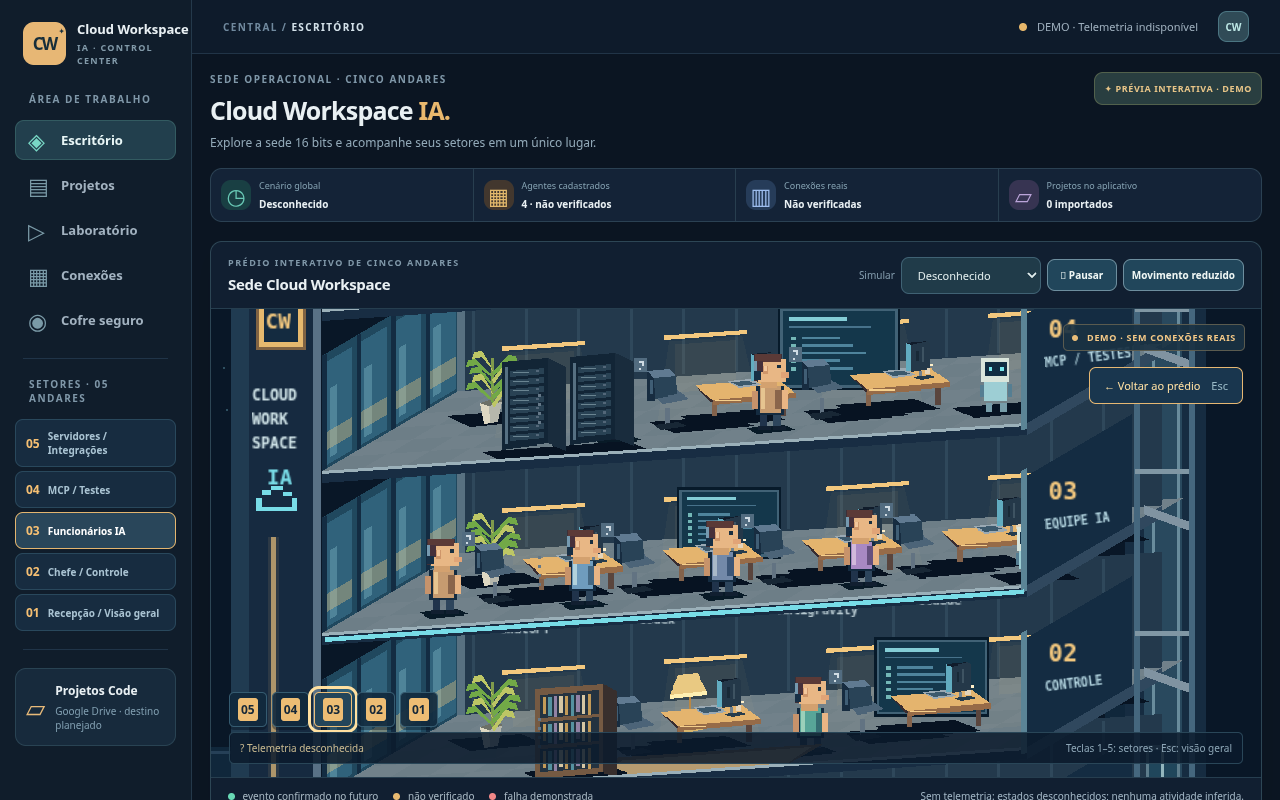
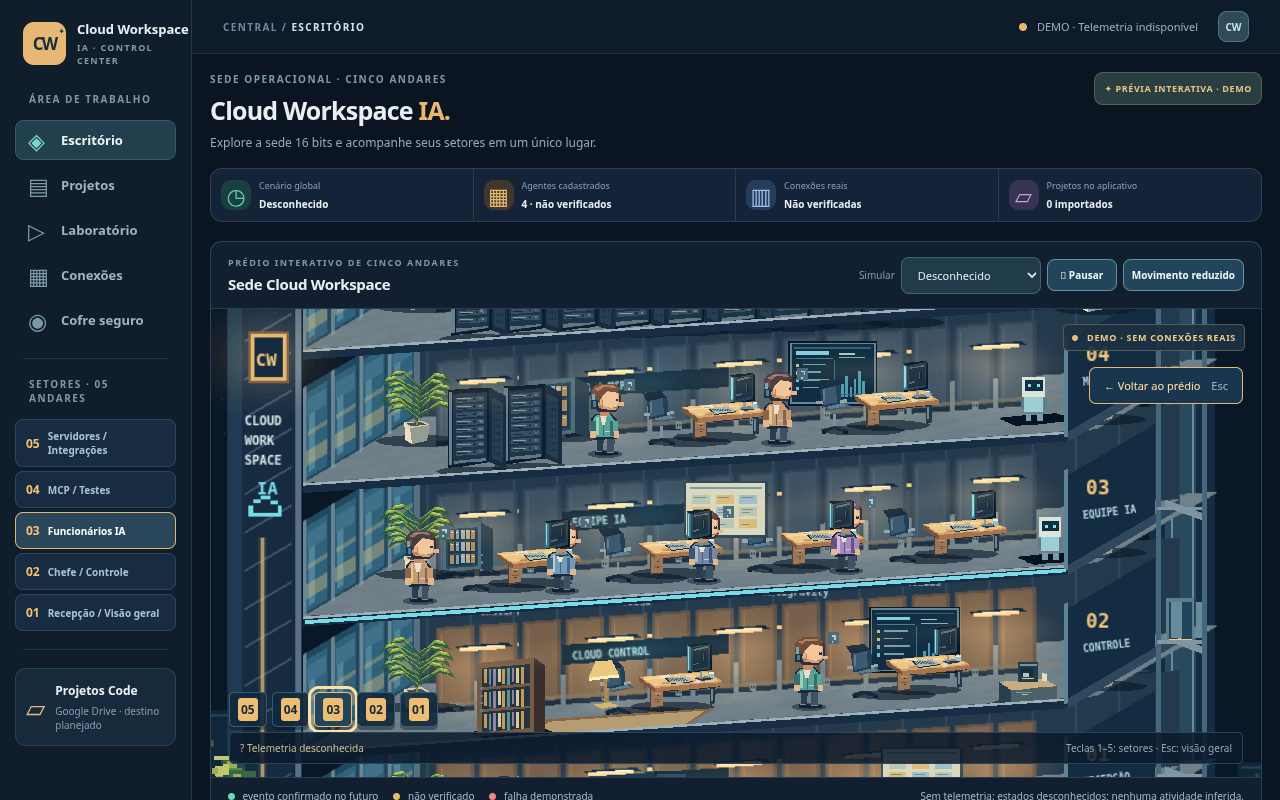
docs: compare premium visuals and record Cloud validation and benchmarks

Changed region(s): [[0.1562, 0.375, 0.9688, 0.9688], [0.875, 0.375, 0.9688, 0.4062]]

diff --git a/docs/codex/COMPARACAO_VISUAL.html b/docs/codex/COMPARACAO_VISUAL.html
@@ -1,1 +1,1 @@
-<!doctype html><html lang="pt-BR"><meta charset="utf-8"><meta name="viewport" content="width=device-width"><title>Comparação visual — Tarefa 03</title><style>body{background:#0c1b2b;color:#d9e6ec;font:16px system-ui;margin:24px}main{display:grid;grid-template-columns:1fr 1fr;gap:24px}img{width:100%;object-fit:contain;border:1px solid #456275}h1{font-size:24px}p{max-width:1000px;line-height:1.5}@media(max-width:900px){main{grid-template-columns:1fr}}</style><h1>Referência aprovada e aplicação em execução</h1><p>A esquerda é a referência artística estática; a direita é uma captura real do Chromium, com PixiJS 8. A referência nunca é usada como textura da cena. Esta comparação não comprova funcionamento Windows.</p><main><section><h2>Referência artística — não é o software</h2><img src="../referencias/REFERENCIA_APROVADA_PREDIO_5_ANDARES_16BITS.png" alt="Conceito aprovado com prédio e quadros de animação"></section><section><h2>Aplicação real — 1440×900</h2><img src="screenshots/overview-1440x900.png" alt="Interface React e cena PixiJS capturadas pelo Playwright"><h2>Aplicação real — setor ampliado</h2><img src="screenshots/agents-zoom-1440x900.png" alt="Setor IA ampliado no aplicativo"></section></main><p>Preservados: cinco pisos, fachada oeste, elevador leste, cidade noturna, móveis e personagens separados, monitores voltados aos personagens. Diferenças restantes: densidade decorativa, sombras orgânicas, reflexos e vegetação são mais simples; sprites humanos e perspectiva precisam de revisão artística adicional. Não declarar fidelidade final premium.</p></html>
+<!doctype html><html lang="pt-BR"><meta charset="utf-8"><meta name="viewport" content="width=device-width"><title>Comparação visual — PR 1, rodada 2</title><style>body{background:#0c1b2b;color:#d9e6ec;font:16px system-ui;margin:24px}main{display:grid;grid-template-columns:repeat(3,1fr);gap:20px}img{width:100%;object-fit:contain;border:1px solid #456275}h1{font-size:24px}h2{font-size:18px}p{max-width:1200px;line-height:1.6}a{color:#a4e4ef}@media(max-width:1100px){main{grid-template-columns:1fr}}</style><h1>Referência, implementação anterior e rodada premium 2</h1><p>A primeira coluna é somente referência artística. As demais são capturas reais do Chromium: versão anterior preservada do commit 616f406 e implementação atual com objetos independentes PixiJS 8. Nenhuma imagem do conceito é textura da aplicação. Clique para ver cada arquivo no tamanho original.</p><main><section><h2>Referência aprovada — conceito estático</h2><a href="../referencias/REFERENCIA_APROVADA_PREDIO_5_ANDARES_16BITS.png"><img src="../referencias/REFERENCIA_APROVADA_PREDIO_5_ANDARES_16BITS.png" alt="Referência artística aprovada, não é captura de software"></a></section><section><h2>Antes — aplicação real, primeira rodada</h2><a href="screenshots/baseline-overview-1440x900.png"><img src="screenshots/baseline-overview-1440x900.png" alt="Visão geral real da implementação anterior"></a><a href="screenshots/baseline-agents-zoom-1440x900.png"><img src="screenshots/baseline-agents-zoom-1440x900.png" alt="Personagens e ambiente anteriores, captura real"></a></section><section><h2>Agora — aplicação real, rodada 2</h2><a href="screenshots/overview-1440x900.png"><img src="screenshots/overview-1440x900.png" alt="Visão geral atual com prédio ampliado e iluminação"></a><a href="screenshots/premium-working-zoom-1440x900.png"><img src="screenshots/premium-working-zoom-1440x900.png" alt="Setor IA atual com personagens sentados, móveis separados e luzes; trabalho DEMO"></a></section></main><p>Evolução observável: proporções do prédio, interiores, painéis/armários, rostos/roupas, mesas/cadeiras/teclados/monitores independentes, árvores/cercas vivas, luzes pré-renderizadas e sombras. Ainda diferem: detalhes artesanais, expressividade e sombreamento orgânico do conceito. Capturas web Linux não validam instalador nem desempenho Windows.</p></html>

diff --git a/docs/codex/RELATORIO_VISUAL_CODEX.md b/docs/codex/RELATORIO_VISUAL_CODEX.md
@@ -1,103 +1,102 @@
-# Relatório visual Codex — Tarefa 03
+# Relatório visual Codex — PR #1, rodada premium 2
 
-Data: 16/11/2026. Repositório: Raphahel30/cloud-workspace-ia.
-Branch: `agent/codex/visual-5-floors`, base `48100ed`.
+Data: 16/11/2026. Branch: `agent/codex/visual-5-floors`.
+Continuação da entrega `616f406` no mesmo [PR #1](https://github.com/Raphahel30/cloud-workspace-ia/pull/1), sem merge ou deploy.
 
-**Resultado: incremento funcional validado no navegador. O acabamento premium da referência ainda não foi atingido. Windows/Tauri e hardware alvo não foram validados.** Sem merge, deploy ou integração real.
+**Resultado:** escritório significativamente mais detalhado e próximo da composição aprovada, funcional no Chromium, com 215 sprites originais, trajetos/posturas e otimização seletiva. Foram preservados os 30 testes anteriores e acrescentados oito: **38 aprovados**. Aprovação artística final e desempenho nativo Windows continuam pendentes; não declaramos reprodução idêntica do conceito.
 
-## Implementação e etapas
+![Captura real atual em 1440×900](screenshots/overview-1440x900.png)
 
-| Etapa | Resultado |
+## Implementação visual
+
+Mantida a aplicação existente React 19 / TypeScript / Vite / Tauri 2 com PixiJS 8. Nenhum reinício de produto, biblioteca gráfica nova ou integração real. Cinco setores aparecem simultaneamente, selecionáveis pelo prédio, controles React e teclado; zoom suave, Escape, foco visível e movimento reduzido preservados.
+
+- **Personagens:** rosto/cabelo em camadas, headset, roupas com lapela/dobras, pele preservada nas paletas, pernas/calçados, piscada discreta e poses sentadas. Quatro quadros de caminhada lateral e posterior, quatro de digitação e dois de sentar/levantar e dos demais estados visuais. Pés ancorados independentemente da pose.
+- **Móveis:** mesa de madeira, gavetas/pés, cadeira, teclado, monitor, recepção, café, armários e painéis mais detalhados. Teclado/monitor são sprites independentes. Tela estreita olha para o personagem; verso com ventilação olha para o observador. Mãos/teclado e oclusão da cadeira foram ajustados nas capturas ampliadas.
+- **Arquitetura:** largura útil aumentada, projeção consistente, materiais de parede, rodapés, juntas metálicas, painéis, letreiros, detalhes de telhado e fachada. Sem deformar a proporção dos sprites para alargar o prédio.
+- **Vegetação/ambiente:** árvores, folhagens variadas e cercas vivas em lugar de repetir somente vasos. Cidade noturna e iluminação âmbar/ciano preservadas. Refletância e luzes são rasterizadas previamente no atlas; sem filtros dinâmicos pesados.
+
+Fontes editáveis em `assets/source/`; desenho em `scripts/art/premium.mjs`; exportador em `scripts/generate-assets.mjs`. Atlas único `public/art/office.{png,json}`. [Documentação da arte](../../assets/README.md).
+
+## Movimentos e estados
+
+`src/scene/motion.ts` é uma máquina visual separada do núcleo: corredor frontal livre, aproximação à cadeira, sentar, digitar, levantar, percorrer corredor e desaparecer na saída. Velocidade limitada a 85 unidades de cena/s; avanço dos quadros de caminhada acompanha a distância. O pés permanecem dentro do piso (`y = -6 - 0,068x` no corredor), sem flutuar junto com o corpo. Espera/alerta/desconhecido interrompem deslocamentos preservando posição; retorno após ausência restaura presença também em estados diferentes de trabalho, inclusive com movimento reduzido.
+
+Elevador ambiental agora acelera/freia, para alinhado às plataformas e abre/fecha portas durante a parada. Altura da cabine/plataformas foi conferida junto com a ampliação do prédio. Não representa tarefas reais ou usuários transportados.
+
+A rota é deliberadamente simples e validada para o mobiliário fixo desta cena. Não é um sistema geral de navegação entre obstáculos ou circulação simultânea com resolução de colisão entre personagens. Paradas/poses foram testadas; não alegamos um simulador físico completo.
+
+Estado inicial desconhecido; indicador DEMO permanente. Simulação individual e global não altera evidências reais. Chefe continua aparecendo somente no cenário explicitamente DEMO de trabalho. LEDs desconhecidos ficam cinza. `ActorStates` e adaptador puro de evidências continuam separados do relógio visual. Não criamos processos/conectores MCP, Windows, GitHub de produto, Drive, KeePassXC ou Hostinger.
+
+## Otimização para o hardware informado
+
+Referência de projeto: Ryzen 5 5600G, Radeon integrada, 16 GB RAM, SSD NVMe 512 GB. Não pedimos testes preliminares no computador para decidir arquitetura.
+
+- Meta configurada: **30 FPS em atividade, até 10 em repouso, suspensão de renderização invisível**. Caminhada/sentar/saída usam orçamento ativo enquanto ocorrem, mesmo antes de chegar ao estado de repouso/ausência.
+- Atlas compartilhado com recorte transparente preservando a origem: 106→215 sprites; pixels do atlas **1024×1792→1024×964**, aproximadamente **7→3,77 MiB RGBA**. Cerca de 46% menos pixels de atlas, sem remover detalhes. Isso não é uma medição de VRAM total.
+- Oito caches densos: cidade/piso externo, cinco estruturas interiores, telhado e fachada oeste. Atores, equipamentos, LEDs, seleção e elevador continuam independentes. Caches parciais preservam oclusão e interação; não são imagem única do prédio.
+- Fachadas finas e vegetação esparsa ficam em geometria/sprites compartilhados: cachear seus grandes retângulos transparentes é desperdício. Comparativo curto com 14 caches está registrado; os oito selecionados evitam seis render textures adicionais.
+- LEDs recalculam seus desenhos somente quando muda estado/fase luminosa, em vez de reconstruir geometria a cada frame. Sem filtros de desfoque em runtime, sem DPR multiplicando a resolução, nearest-neighbor e orçamento que desconta custo de desenho.
+- Pausa/reduced-motion interrompem animação; cena invisível interrompe timers/desenho; retorno/resize pode emitir um frame necessário. Desmontagem libera aplicação/contexto, listeners, observers e timers; atlas em cache é reutilizado. Relógio visual não executa serviços do núcleo.
+
+## Validação executada
+
+Linux, Node 24.22.1, npm 11.9.0, Chromium headless dedicado com ANGLE/SwiftShader (software). Dependências/lockfile da rodada anterior preservados; nenhuma dependência nova foi instalada.
+
+| Verificação | Resultado final |
 | --- | --- |
-| C0 | Inspeção dos documentos/código/Tauri, dependências instaladas, lockfile e `npm ci` verificado. Diagnóstico em [C0_DIAGNOSTICO.md](C0_DIAGNOSTICO.md). |
-| C1 | SVG de prédio inteiro substituído por cena PixiJS 8: cinco setores simultâneos, objetos separados, seleção pela geometria ou controles React, câmera suave, zoom e retorno. |
-| C2 | Atlas original com 106 regiões, fontes editáveis e cenário noturno. Corrigidos teto, escala, oclusão de racks, monitores e enquadramento notebook a partir de capturas reais. Acabamento artístico final parcial. |
-| C3 | Animações individuais, roupas, seis estados, transições de caminhada/mesa/saída, LEDs e elevador independentes; controles DEMO por agente. Pausa e movimento reduzido. |
-| C4 | Build web, 30 testes automatizados no total, seis capturas reais e medições de renderização. PR para revisão humana; validação nativa Windows pendente. |
+| `npm run build` | PASSOU, TypeScript + Vite, 791 módulos |
+| `npm test` | PASSOU, 22 testes Vitest em cinco arquivos |
+| `npm run test:policy` | PASSOU, 3 testes Node originais |
+| `npm run test:contracts` | PASSOU, 5 testes Node protegidos |
+| `npm run test:e2e` | PASSOU, 8 testes, 0 falhas/0 flaky, cerca de 70,8 s |
+| `npm run art:build` + SHA-256 das fontes/atlas antes/depois | PASSOU, reprodução byte a byte |
+| `npm run benchmark:visual` | EXECUTADO, amostras reais abaixo |
+| `git diff --check` e diff dos arquivos protegidos/Tauri | PASSOU, contratos e configuração Tauri intactos |
+| Windows/Tauri/instalador/consumo no Ryzen | NÃO EXECUTADO |
 
-React permanece responsável por navegação, controles, foco, acessibilidade e informações. `Office.tsx` inicia o renderer assincronamente; `OfficeRenderer.ts` organiza geometria, camadas de arquitetura, móveis ordenados por profundidade, avatares, iluminação, elevador e cidade. Não foi criado outro aplicativo, nem alterada a arquitetura Tauri.
+Preservados os 30 testes anteriores. Acrescentados seis testes de movimento/elevador, um de packing/origem/limites da textura e um teste de navegador para pés fixos, sentar/levantar, espera/saída, orçamento de atividade e reentrada reduzida. O teste antigo de saída mantém sua asserção, com timeout maior para o trajeto completo mais longo. Nenhum teste protegido foi editado.
 
-A referência PNG não é textura, tela de funcionamento ou asset de runtime. As peças vêm de `scripts/generate-assets.mjs`, com SVGs editáveis em `assets/source/`, PNG transparente e atlas JSON em `public/art/`. Regeneração executada e comparada com Git sem diferenças. Consulte [documentação da arte](../../assets/README.md).
+Playwright cobre 1280×800 e 1440×900, cinco setores completos no viewport, zoom/retorno, clique na geometria, Enter/1–5/Escape, foco, estados globais/individuais, pausa, reduced-motion do sistema, invisibilidade, congelamento/restauração Chromium, resize, desmontagem/remontagem e erro acessível de import gráfico.
 
-O atlas tem quatro quadros de caminhada, quatro de digitação e dois de repouso, espera e alerta, além de pose desconhecida e cinco paletas de roupa. O teste raster verifica que os quadros obrigatórios têm pixels distintos. Personagens e equipamentos têm tempo/estado próprios; a simulação global pode ser sobrescrita individualmente no painel IA.
+Falhas desta rodada: quadros de repouso idênticos detectados no raster; pés escondidos pela laje por corredor fora da área do piso; mãos/teclado e planta sobreposta ao primeiro posto vistos na captura; personagem não reaparecendo após ausência em estados não ativos, detectado por revisão independente. Corrigidos e cobertos antes da execução final. A revisão posterior não encontrou novos P1/P2; não é auditoria geral do produto.
 
-Nos postos reutilizados, personagem fica à esquerda olhando para a direita, teclado no tampo antes do monitor; a face estreita iluminada olha para o personagem e a placa larga traseira mostra ventilação. Não viramos a tela para o observador. A pose digitando alcança o teclado; há cadeira separada e pernas dobradas. A caminhada usa trajetos curtos no corredor frontal, ainda sem navegação completa com obstáculos.
+## Capturas e comparação
 
-## Estados e segurança
+**Capturas atuais da aplicação executando**, sem composição sobre o PNG aprovado:
 
-- Estado inicial **desconhecido**, sem conexões, tarefas reais ou importação de projetos.
-- Indicador DEMO na barra fixa e na cena; ações globais/individuais explicitamente demonstrativas.
-- Chefe aparece apenas no cenário de trabalho DEMO; nenhum estado recebido de produção é inventado.
-- `ActorStates` é uma entrada visual por personagem. `fromEvidence` é um adaptador puro para uso futuro, baseado nas funções existentes de confiança/TTL; não abre conexão nem executa polling. Testes rejeitam trabalho inferido de processo aberto e atividade expirada.
-- `src/core-contracts/agentState.ts` e `tests/agentState.node.test.mjs` estão idênticos à base, confirmado por `git diff --exit-code`.
-- Não modificados `src-tauri/`, segurança de credenciais, MCP, Drive, GitHub de produto, KeePassXC ou Hostinger. Nenhum outro projeto acessado.
-- Documento histórico dizia que GitHub ainda não existia. A autorização atual nomeia este repositório existente e permite branch/PR. Essa autorização não foi interpretada como permissão para integrações, merge ou deploy.
+- [Visão geral 1280×800](screenshots/overview-1280x800.png) e [1440×900](screenshots/overview-1440x900.png).
+- [Setor IA / desconhecido 1280×800](screenshots/agents-zoom-1280x800.png) e [1440×900](screenshots/agents-zoom-1440x900.png).
+- [Setor IA trabalhando DEMO 1280×800](screenshots/premium-working-zoom-1280x800.png) e [1440×900](screenshots/premium-working-zoom-1440x900.png).
+- [Trabalho DEMO / visão geral](screenshots/demo-working-1440x900.png) e [estados individuais DEMO](screenshots/demo-independent-1440x900.png).
 
-## Testes executados
+A [comparação HTML](COMPARACAO_VISUAL.html) mostra referência artística, capturas anteriores arquivadas do commit `616f406` e capturas atuais. `baseline-*` são imagens reais antigas, claramente separadas das oito capturas atuais. A referência nunca entra no renderer.
 
-Execução final após `npm ci`, em Linux, Node 24.22.1, npm 11.9.0, Chromium headless dedicado com ANGLE/SwiftShader. O Chrome pessoal não foi utilizado.
+Comparação observada: prédio mais largo, vegetação variada, contraste dos materiais, luzes/reflexos e densidade dos interiores mais próximos do conceito; rostos, roupas, mesas e cadeiras têm desenho mais definido. Ainda faltam o sombreamento artesanal orgânico e a expressividade/densidade ilustrativa da referência. Os letreiros internos são pequenos na visão geral; controles React e zoom preservam leitura no notebook. Aprovação artística final cabe à revisão humana.
 
-| Comando/check | Resultado final |
+## Desempenho medido — Cloud, não Windows
+
+Benchmark reproduzível: iniciar `npm run dev`, executar `npm run benchmark:visual`. Mede frames efetivos após acomodação, 5 s de atividade e 3 s de repouso, CDP TaskDuration e heap JS. Chromium usa software, não a Radeon integrada.
+
+| Amostra isolada final, oito caches | Resultado |
 | --- | --- |
-| `npm ci` | PASSOU: 135 pacotes, lockfile reproduzível no ambiente |
-| `npm run build` | PASSOU: TypeScript sem emissão + Vite, 789 módulos |
-| `npm test` | PASSOU: 15 testes Vitest em quatro arquivos |
-| `npm run test:policy` | PASSOU: 3 testes Node originais |
-| `npm run test:contracts` | PASSOU: 5 testes Node protegidos |
-| `npm run test:e2e` | PASSOU: 7 testes, 0 falhas, 0 flaky, cerca de 41,5 s |
-| `git diff --check` e diff dos dois arquivos protegidos | PASSOU |
-| `npm run art:build` + diff de fontes/atlas | PASSOU: mesmos arquivos gerados |
-| Instalador/execução Tauri Windows | NÃO EXECUTADO |
+| Atividade | 118 frames / 5006 ms = **23,57 FPS** |
+| Repouso | 30 frames / 3012 ms = **9,96 FPS** |
+| Soma de tarefas da thread principal na atividade | 0,307583 s durante a janela de 5,006 s |
+| Soma de tarefas da thread principal no repouso | 0,044041 s durante a janela de 3,012 s |
+| Heap JS | 22.125.172 bytes em atividade; 25.795.432 bytes no repouso |
 
-Playwright verifica cinco andares nas duas resoluções; limites da cena dentro do viewport; clique, seleção pela própria geometria, Enter, teclas 1–5, Escape, foco, zoom/retorno, estados individuais e globais, entrada/caminhada/digitação/ausência, pausa sem avanço de frames/tempo, preferência do sistema por movimento reduzido, suspensão com elemento invisível, ciclo Chromium frozen/active, resize notebook, desmontagem/remontagem com um único canvas e fallback acessível quando o chunk gráfico falha.
+No teste E2E completo: 23,03 FPS em atividade e 9,90 FPS em repouso; heap JS de 37.573.512 bytes na amostra. A diferença entre contextos evidencia a natureza amostral dessas medidas. Pausa, reduced-motion e invisibilidade mantiveram frames/tempo constantes após acomodação quando aplicável.
 
-A suspensão por `document.visibilitychange` também está implementada. O teste de invisibilidade usa IntersectionObserver; o teste de congelamento usa o ciclo de vida Chromium. Isso **não comprova** minimização ou restauração da janela Tauri no Windows.
+No comparativo de cache, uma amostra com 14 caches deu 24,75 FPS em atividade / TaskDuration 0,248472 s; com oito, 23,92 FPS / 0,167406 s. Não há evidência estatística de ganho de FPS; escolhemos oito por menor quantidade de render textures e menor tempo de tarefas nessa amostra, com a mesma arte. A repetição final variou para os valores da tabela. Todos os dados estão em [METRICAS_VISUAIS.json](METRICAS_VISUAIS.json), [benchmark-isolado.json](benchmark-isolado.json) e [e2e-results.json](e2e-results.json).
 
-Falhas encontradas durante o trabalho não foram contadas como sucesso: coleta indevida de testes Node pelo Vitest, cena cortada, racks ocultos, controles escondidos perdendo foco, seleção acessível dos menus, transições paradas deslizando, import gráfico sem tratamento e corrida de foco por callback adiado. Foram reproduzidas e corrigidas antes da execução final. Revisão independente identificou os problemas de transição e import; releitura posterior sem novos P1/P2. Não foi realizada uma auditoria geral do produto.
+**O alvo de 30 FPS não foi atingido neste Chromium por software.** TaskDuration não é CPU total; heap JS não é RAM total; tamanho RGBA do atlas não mede VRAM da aplicação. Não medimos CPU/GPU/energia totais nem consumo simultâneo com duas IAs/build no hardware alvo. Não declaramos desempenho garantido no Windows.
 
-Saída estruturada da execução: [e2e-results.json](e2e-results.json). Fontes dos testes em `tests/e2e/office.spec.ts`, `tests/visualBehavior.test.ts`, `tests/visualInputs.test.ts` e `tests/art.test.ts`.
+## Pendências e entrega
 
-## Capturas reais e comparação
+1. Revisão artística humana da aproximação ao conceito, especialmente sombra, expressividade, detalhes de fachada e decoração.
+2. Rotas atuais são adequadas ao layout fixo; circulação com desvio entre personagens e móveis rearranjáveis exige módulo visual adicional.
+3. Validar WebView2/Tauri, minimizar/restaurar, instalador e orçamento real de CPU/GPU/RAM/energia no Windows/Ryzen em etapa própria. O build web não comprova esses resultados.
+4. Integrações reais permanecem exclusivas de outro fluxo. Nenhuma credencial, serviço externo ou projeto alheio foi alterado.
 
-Todas as imagens abaixo foram capturadas da aplicação React/PixiJS executando no Chromium, sem montagem sobre o PNG aprovado:
-
-- [Visão geral 1280×800](screenshots/overview-1280x800.png).
-- [Visão geral 1440×900](screenshots/overview-1440x900.png).
-- [Setor IA ampliado 1280×800](screenshots/agents-zoom-1280x800.png).
-- [Setor IA ampliado 1440×900](screenshots/agents-zoom-1440x900.png).
-- [Trabalho DEMO 1440×900, reprodução pausada](screenshots/demo-working-1440x900.png).
-- [Estados individuais DEMO 1440×900](screenshots/demo-independent-1440x900.png).
-
-[Comparação lado a lado em HTML](COMPARACAO_VISUAL.html) distingue explicitamente referência estática e capturas do software.
-
-Mantidos: prédio único em corte, ordem dos cinco pisos, fachada oeste, elevador leste, cidade noturna, pisos/móveis/equipamentos separados, luzes âmbar e ciano. A composição usa projeção rasa para legibilidade; não é reprodução pixel a pixel da imagem aprovada.
-
-Diferenças restantes: vegetação pouco variada, sombras/reflexos simplificados, fachada com menos detalhes, interiores menos densos e personagens mais simples. Os painéis React mantêm textos legíveis no notebook; placas internas são pequenas na visão geral e exigem zoom. A identidade dos avatares e acabamento artesanal devem passar por nova revisão visual. Essas diferenças são visíveis nas capturas e impedem declarar o visual premium final concluído.
-
-## Desempenho observado
-
-Medições curtas, instrumentação do próprio renderer e `performance.memory`; números completos em [METRICAS_VISUAIS.json](METRICAS_VISUAIS.json).
-
-| Amostra | Resultado |
-| --- | --- |
-| Atividade DEMO | 29 frames em 1273 ms: **22,78 FPS efetivos** |
-| Repouso | 20 frames em 2022 ms: **9,89 FPS efetivos** |
-| Heap JS no repouso | 26.824.622 bytes, aproximadamente **25,6 MiB** |
-| Pausa / movimento reduzido | Contagem de frames e tempo visual permaneceram constantes após acomodação da câmera |
-| Cena invisível | Contagem de frames permaneceu constante |
-
-O limite configurado é 30 FPS em atividade e 10 FPS em repouso/desconhecido. O custo de desenho é descontado do intervalo. Em SwiftShader o alvo de 30 FPS não foi atingido nesta amostra; não extrapolar os resultados para GPU integrada Ryzen 5600G. Heap JS não é RAM total do processo, GPU, CPU ou energia. Não foram medidos consumo nativo Windows, VRAM, comportamento com duas IAs abertas ou build concorrente no hardware alvo.
-
-Sem filtros pesados, renderização automática/ticker permanente ou serviço de núcleo vinculado a frames. Resolução interna acompanha o contêiner sem multiplicar por DPR; nearest-neighbor; atlas compartilhado em cache. Ao desmontar, timers/listeners/observers e aplicação/contexto Pixi são liberados; o cache de assets é reutilizado em novas montagens. Há renderizações pontuais para controles, resize e câmera, inclusive quando o movimento está pausado.
-
-## Pendências e revisão humana
-
-1. Rodada artística adicional para atingir a riqueza da referência, especialmente materiais, profundidade, sombras e vegetação. O atlas programático é um incremento original funcional, ainda inferior ao acabamento ilustrado aprovado.
-2. Expandir as rotas curtas para entradas/saídas completas e colisões com mobiliário, preservando estados e posições quando interrompidas.
-3. Medir FPS, CPU/RAM/energia e minimizar/restaurar em Windows no Ryzen 5600G; validar Tauri/WebView2, empacotamento e instalador no fluxo apropriado. Nada disso foi comprovado pelo build web.
-4. Conexões reais permanecem responsabilidade do outro fluxo; esta entrega somente define a fronteira visual para eventos futuros.
-5. Aprovação artística e revisão do PR antes de qualquer integração na main. Nenhum merge ou deploy efetuado.
-
-Histórico de implementação: commits desta branch em relação a `origin/main` (`git log --oneline origin/main..HEAD`), incluindo preparação `cd5a9be` e renderer/atlas `0c3c3b6`.
-
-PR de revisão (rascunho, aberto, sem merge): https://github.com/Raphahel30/cloud-workspace-ia/pull/1 .
+Novos commits desta rodada estão na mesma branch e no mesmo PR #1, para revisão. Sem merge ou deploy. Histórico completo: `git log --oneline origin/main..HEAD`.

diff --git a/README.md b/README.md
@@ -1,6 +1,6 @@
-# Cloud Workspace IA — cena visual Tarefa 03
+# Cloud Workspace IA — escritório visual / rodada premium 2
 
-Aplicativo existente em Tauri 2, React 19, TypeScript e Vite. A interface agora renderiza um prédio de cinco andares com **PixiJS 8**, sprites originais e objetos independentes. Todos os andares cabem na visão geral em 1280×800 e 1440×900; seleção por clique, teclado 1–5 e retorno por Escape.
+Aplicativo existente em Tauri 2, React 19, TypeScript e Vite. A interface agora renderiza um prédio de cinco andares com **PixiJS 8**, 215 sprites originais detalhados e objetos independentes, materiais, vegetação e iluminação pré-renderizada. Todos os andares cabem na visão geral em 1280×800 e 1440×900; seleção por clique, teclado 1–5 e retorno por Escape.
 
 **DEMO permanente. Sem telemetria real ou integrações.** Estado inicial desconhecido; os controles simulam ausência, repouso, trabalho, aprovação e alerta. No painel do andar IA é possível simular estados individuais. Chefe só aparece no cenário de trabalho explicitamente DEMO. O contrato de evidências e seus testes permanecem intactos.
 
@@ -18,6 +18,7 @@ Node 24 foi usado nesta validação. `test:policy` e `test:contracts` usam o sup
 
 ```sh
 npm run art:build
+# Benchmark isolado (servidor dev em execução): npm run benchmark:visual
 # Chromium instalado em /usr/bin/chromium neste Cloud workspace
 npm run test:e2e
 # Em outro ambiente: CHROMIUM_PATH=/caminho/chromium npm run test:e2e
@@ -25,7 +26,7 @@ npm run test:e2e
 
 Iniciar `npm run dev` antes do Playwright. Para instalar um navegador dedicado quando necessário: `npx playwright install chromium`, ajustando CHROMIUM_PATH. Não usa perfil pessoal do Chrome. Fontes e atlas: [assets/README.md](assets/README.md).
 
-A cena reduz a 10 FPS em repouso/desconhecido, limita a 30 FPS em atividade, pausa quando invisível e oferece movimento reduzido. O tempo visual não executa serviços de núcleo. Falha WebGL mostra mensagem acessível; não substitui a cena pela referência.
+Trajetos passam pelo corredor, com aproximação, sentar/levantar e saída; elevador para nos andares e abre portas. Atlas recortado preserva a origem dos pés e oito caches guardam somente camadas estáticas densas. A cena reduz a 10 FPS em repouso/desconhecido, limita a 30 FPS em atividade, pausa quando invisível e oferece movimento reduzido. O tempo visual não executa serviços de núcleo. Falha WebGL mostra mensagem acessível; não substitui a cena pela referência.
 
 Resultados, capturas reais, métricas e pendências: [relatório visual](docs/codex/RELATORIO_VISUAL_CODEX.md). Comparação lado a lado: [HTML local](docs/codex/COMPARACAO_VISUAL.html).
 

diff --git a/docs/codex/PLANO_VISUAL_T03.md b/docs/codex/PLANO_VISUAL_T03.md
@@ -14,3 +14,9 @@ Arquitetura: preservar App, FloorDetails, Tauri e contratos. Substituir somente 
 Riscos a verificar: desmontagem durante init assíncrono; contexto WebGL indisponível; zoom após resize; aba oculta/intersection; redução de movimento; conteúdo fora da tela em notebook. Testes cobrem estados, câmera, pause/visibilidade e desmontagem/remontagem. Falha gráfica deve apresentar mensagem acessível, nunca trocar pela referência.
 
 Conflito histórico: Plano Mestre menciona repositório ainda não criado e proibição anterior de criar GitHub. A autorização atual nomeia o repositório existente e pede branch/PR; não autoriza integrações de produto, merge nem deploy. Sem mudança das decisões funcionais.
+
+## Continuação autorizada — PR #1, rodada premium 2
+
+Hardware de referência: Ryzen 5 5600G / Radeon integrada / 16 GB RAM / NVMe 512 GB. Arquitetura permanece PixiJS 8 + React/Tauri, sem depender de ensaio prévio no Windows.
+
+Executado: materiais/luz rasterizada, personagens e mobiliário detalhados; atlas recortado com origem preservada; interiores ampliados, fachada e vegetação; máquina visual de trajetos pelo corredor, aproximação, sentar/levantar e saída; elevador com paradas/portas; cache seletivo avaliado no Cloud; testes de regressão, novas capturas, benchmark e relatório. Manter as metas 30/10/0 FPS e registrar desempenho efetivo sem prometer resultado no hardware alvo. Nenhuma integração, contrato protegido, merge ou deploy autorizado nesta continuação.
